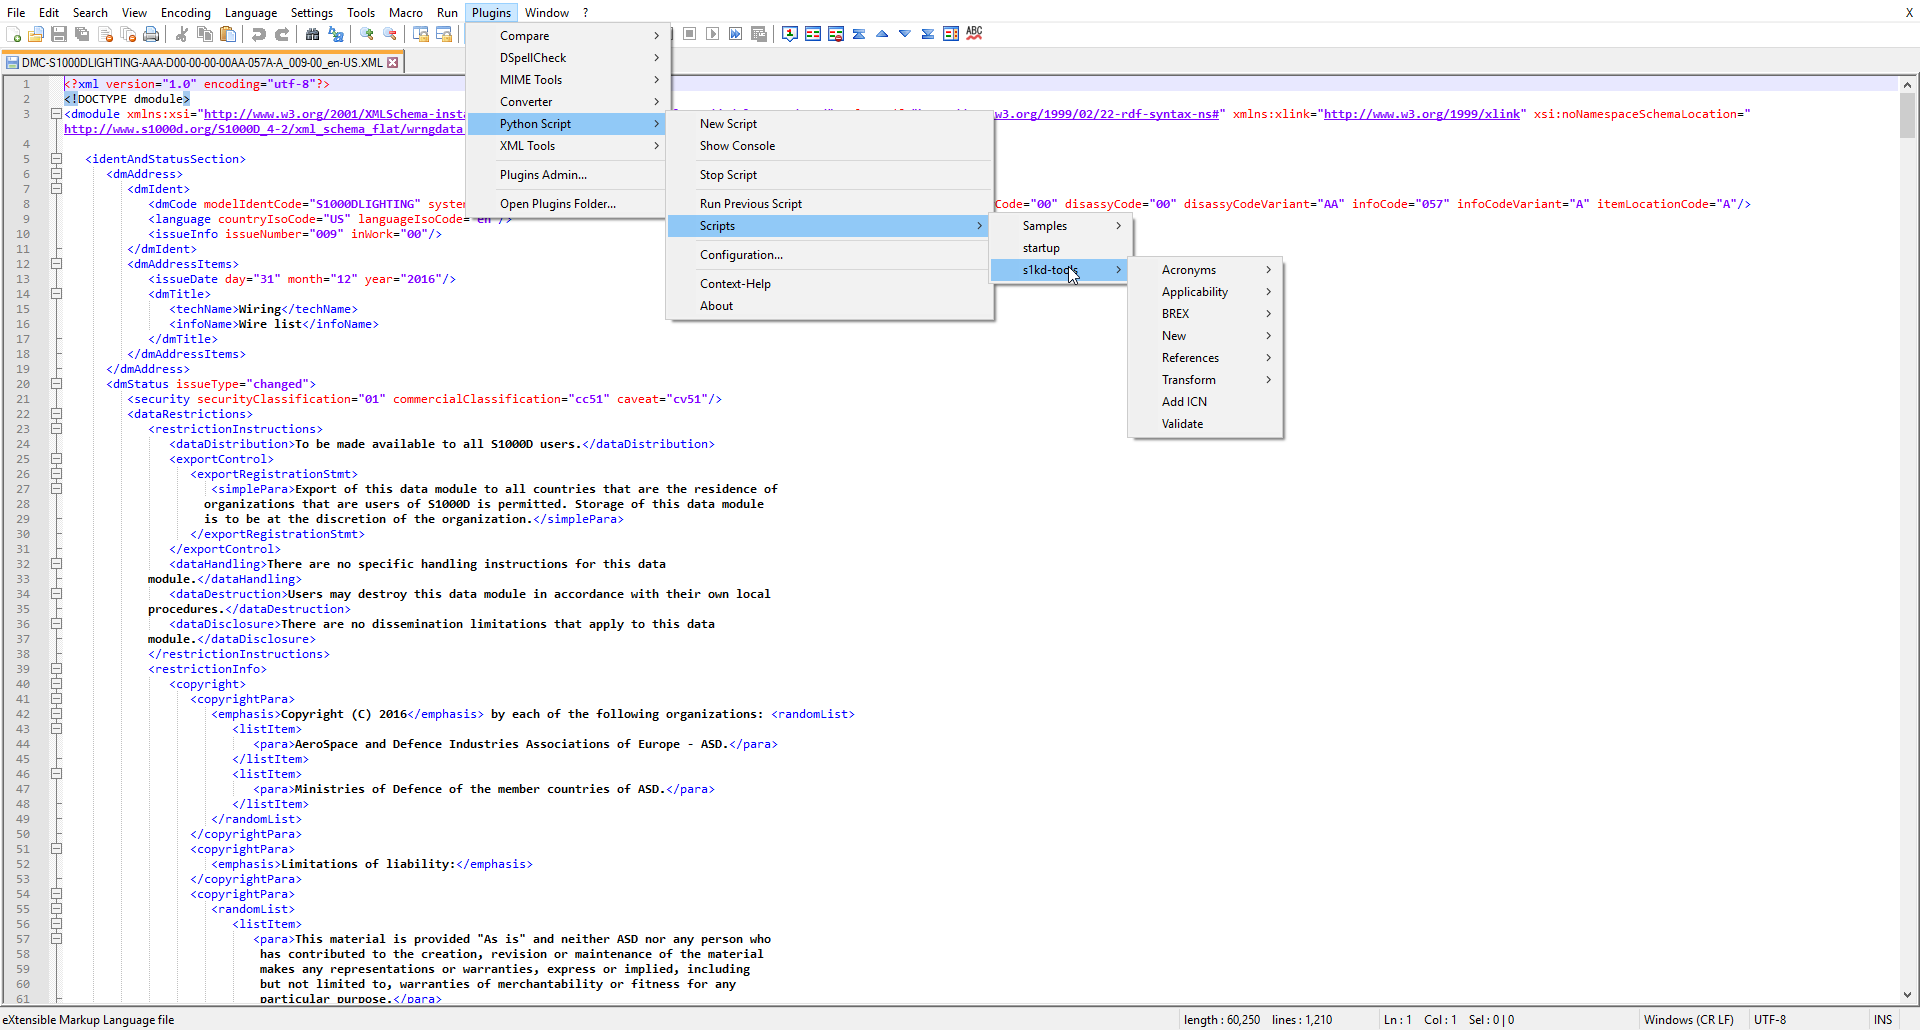
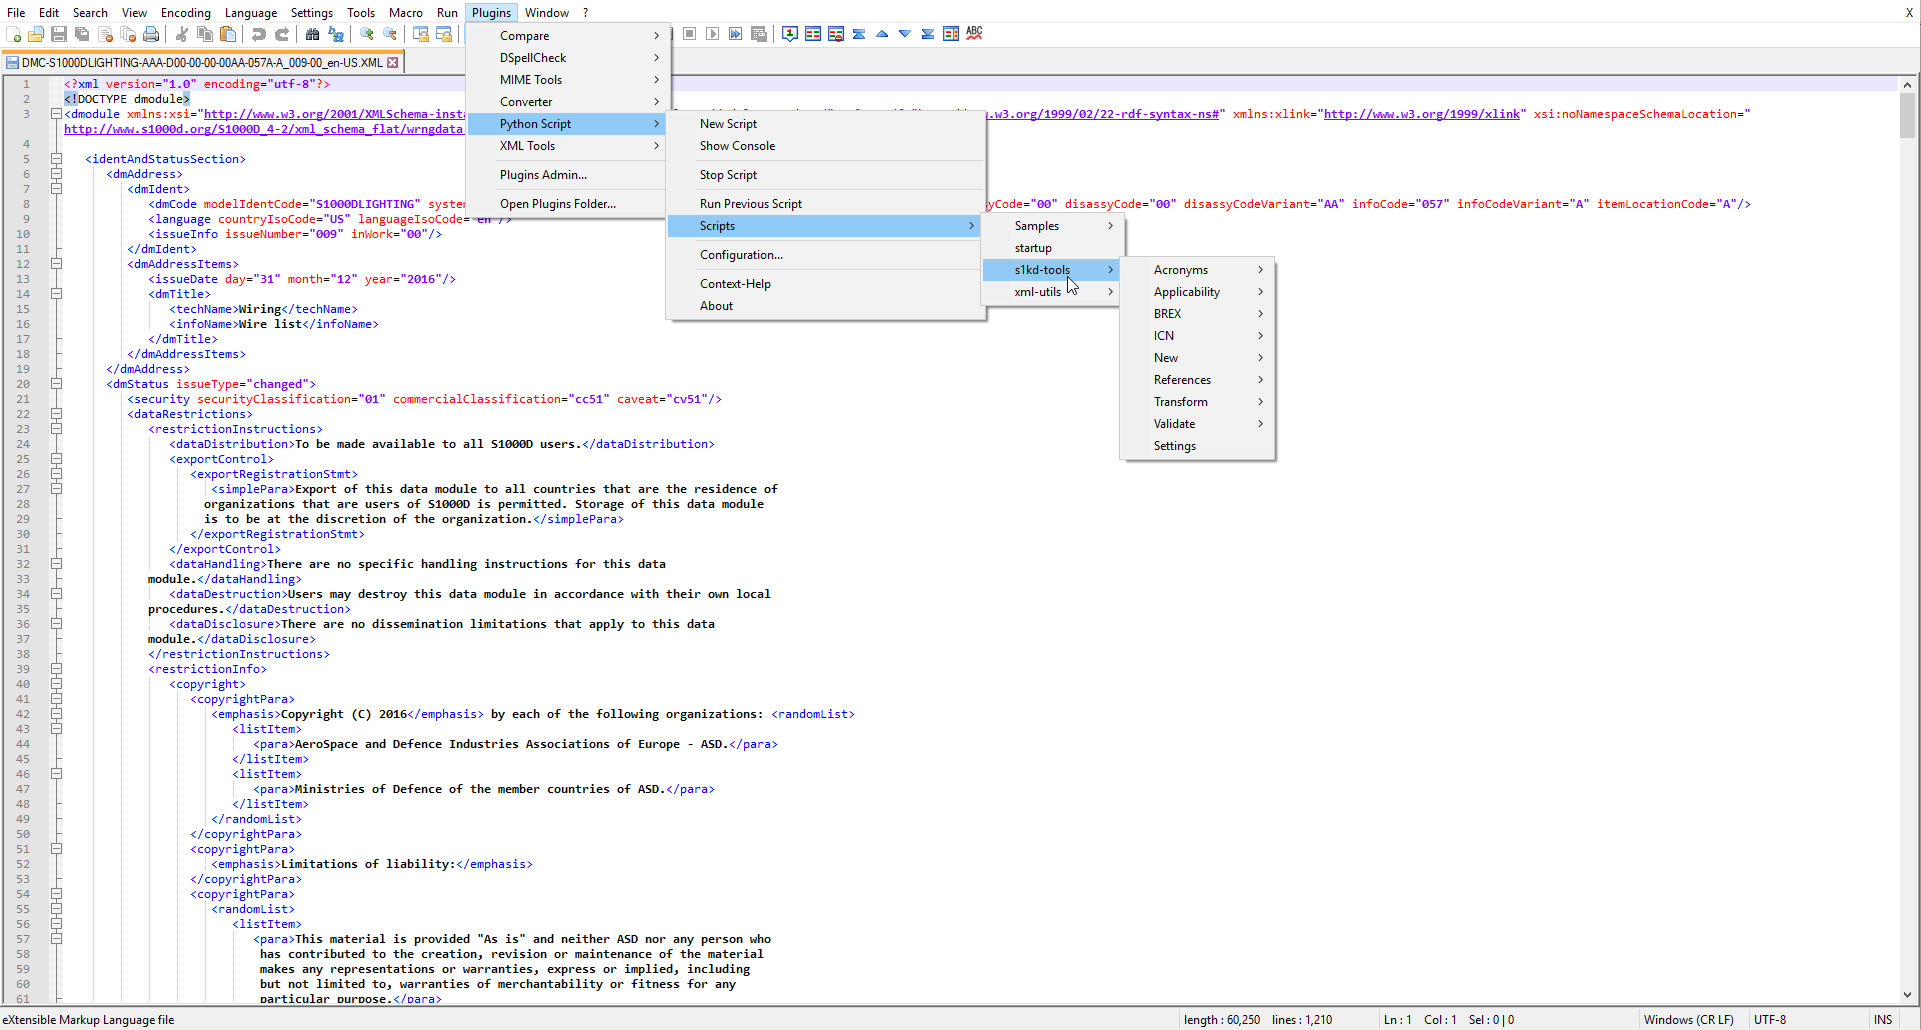
Reorganize scripts and add settings

diff --git a/s1kd-tools/Applicability/Applicability filtering.py b/s1kd-tools/Applicability/Applicability filtering.py
@@ -2,6 +2,7 @@ import os
 import subprocess
 import Npp
 import sys
+import ConfigParser
 
 def main():
 	scriptdir = os.path.dirname(os.path.dirname(os.path.abspath(__file__)))
@@ -15,6 +16,18 @@ def main():
 		return
 
 	args = [s1kd_instance, "-y"]
+
+        config = ConfigParser.RawConfigParser()
+        config.read(scriptdir + "\\settings.ini")
+
+        reduceOrSimplify = config.get("Filtering", "ReduceOrSimplify")
+        if reduceOrSimplify == "reduce":
+            args.append("-a")
+        elif reduceOrSimplify == "simplify":
+            args.append("-A")
+
+        if config.get("Filtering", "AddRequired") == "yes":
+            args.append("-Z")
 
         for f in filters.split(","):
             args.append("-s")

diff --git a/s1kd-tools/BREX/Check against BREX DM.py b/s1kd-tools/BREX/Check against BREX DM.py
@@ -1,6 +1,7 @@
 import subprocess
 import os
 import Npp
+import ConfigParser
 
 def main():
 	scriptdir = os.path.dirname(os.path.dirname(os.path.abspath(__file__)))
@@ -23,7 +24,16 @@ def main():
         cwd = os.getcwd()
         os.chdir(os.path.dirname(path))
 
-	args = [s1kd_brexcheck, "-b", path, "-c", "-l", "-v"]
+	args = [s1kd_brexcheck, "-b", path, "-v"]
+
+        config = ConfigParser.RawConfigParser()
+        config.read(scriptdir + "\\settings.ini")
+
+        if config.get("BREX", "CheckValues") == "yes":
+            args.append("-c")
+
+        if config.get("BREX", "Layered") == "yes":
+            args.append("-l")
 
 	p = subprocess.Popen(
 		args,

diff --git a/s1kd-tools/BREX/Check against default BREX.py b/s1kd-tools/BREX/Check against default BREX.py
@@ -1,6 +1,7 @@
 import subprocess
 import os
 import Npp
+import ConfigParser
 
 def main():
 	scriptdir = os.path.dirname(os.path.dirname(os.path.abspath(__file__)))
@@ -8,7 +9,16 @@ def main():
 
 	CREATE_NO_WINDOW=0x08000000
 
-	args = [s1kd_brexcheck, "-B", "-c", "-v"]
+	args = [s1kd_brexcheck, "-B", "-v"]
+
+        config = ConfigParser.RawConfigParser()
+        config.read(scriptdir + "\\settings.ini")
+
+        if config.get("BREX", "CheckValues") == "yes":
+            args.append("-c")
+
+        if config.get("BREX", "Layered") == "yes":
+            args.append("-l")
 
 	p = subprocess.Popen(
 		args,

diff --git a/s1kd-tools/BREX/Check against referenced BREX.py b/s1kd-tools/BREX/Check against referenced BREX.py
@@ -12,7 +12,16 @@ def main():
         cwd = os.getcwd()
         os.chdir(filedir)
 
-	args = [s1kd_brexcheck, "-c", "-l", "-v"]
+	args = [s1kd_brexcheck, "-v"]
+
+        config = ConfigParser.RawConfigParser()
+        config.read(scriptdir + "\\settings.ini")
+
+        if config.get("BREX", "CheckValues") == "yes":
+            args.append("-c")
+
+        if config.get("BREX", "Layered") == "yes":
+            args.append("-l")
 
 	p = subprocess.Popen(
 		args,

diff --git a/s1kd-tools/Validate/Check against schema.py b/s1kd-tools/Validate/Check against schema.py
@@ -3,7 +3,7 @@ import subprocess
 import Npp
 
 def main():
-	scriptdir = os.path.dirname(os.path.abspath(__file__))
+	scriptdir = os.path.dirname(os.path.dirname(os.path.abspath(__file__)))
 	s1kd_validate = scriptdir + "\\bin\\s1kd-validate.exe"
 
 	CREATE_NO_WINDOW=0x08000000

diff --git a/s1kd-tools/ICN/Add ICN.py b/s1kd-tools/ICN/Add ICN.py
@@ -3,7 +3,7 @@ import subprocess
 import Npp
 
 def main():
-	scriptdir = os.path.dirname(os.path.abspath(__file__))
+	scriptdir = os.path.dirname(os.path.dirname(os.path.abspath(__file__)))
 	s1kd_addicn = scriptdir + "\\bin\\s1kd-addicn.exe"
 
 	CREATE_NO_WINDOW=0x08000000

diff --git a/s1kd-tools/Applicability/Check all applicability.py b/s1kd-tools/Applicability/Check all applicability.py
@@ -11,8 +11,7 @@ def main():
         cwd = os.getcwd()
         os.chdir(scriptdir + "\\bin")
 
-        args = [
-                "s1kd-appcheck.exe",
+        args = ["s1kd-appcheck.exe",
                 "-d", filedir,
                 "-a",
                 "-v"]

diff --git a/s1kd-tools/Applicability/Check product applicability.py b/s1kd-tools/Applicability/Check product applicability.py
@@ -11,8 +11,7 @@ def main():
         cwd = os.getcwd()
         os.chdir(scriptdir + "\\bin")
 
-        args = [
-                "s1kd-appcheck.exe",
+        args = ["s1kd-appcheck.exe",
                 "-d", filedir,
                 "-t",
                 "-v"]

diff --git a/s1kd-tools/Applicability/Check standalone applicability.py b/s1kd-tools/Applicability/Check standalone applicability.py
@@ -10,9 +10,7 @@ def main():
         cwd = os.getcwd()
         os.chdir(scriptdir + "\\bin")
 
-        args = [
-                "s1kd-appcheck.exe",
-                "-v"]
+        args = ["s1kd-appcheck.exe", "-v"]
 
 	p = subprocess.Popen(
 		args,

diff --git a/s1kd-tools/Settings.py b/s1kd-tools/Settings.py
@@ -1,0 +1,4 @@
+import os
+import Npp
+
+Npp.notepad.open(os.path.dirname(os.path.abspath(__file__)) + "\\settings.ini")

diff --git a/README.md b/README.md
@@ -94,6 +94,13 @@ Functions
         Check the CSDB object against the BREX data module it
         references.
 
+-   **ICN**
+
+    -   **Add ICN**
+
+        Add the NOTATION and ENTITY declarations for an ICN to the CSDB
+        object.
+
 -   **New**
 
     Create new types of CSDB objects.
@@ -127,11 +134,8 @@ Functions
 
         Apply an XSL transform script to the CSDB object.
 
--   **Add ICN**
-
-    Add the NOTATION and ENTITY declarations for an ICN to the CSDB
-    object.
-
 -   **Validate**
 
-    Validate the CSDB object against its schema.
+    -   **Check against schema**
+
+        Validate the CSDB object against its schema.
